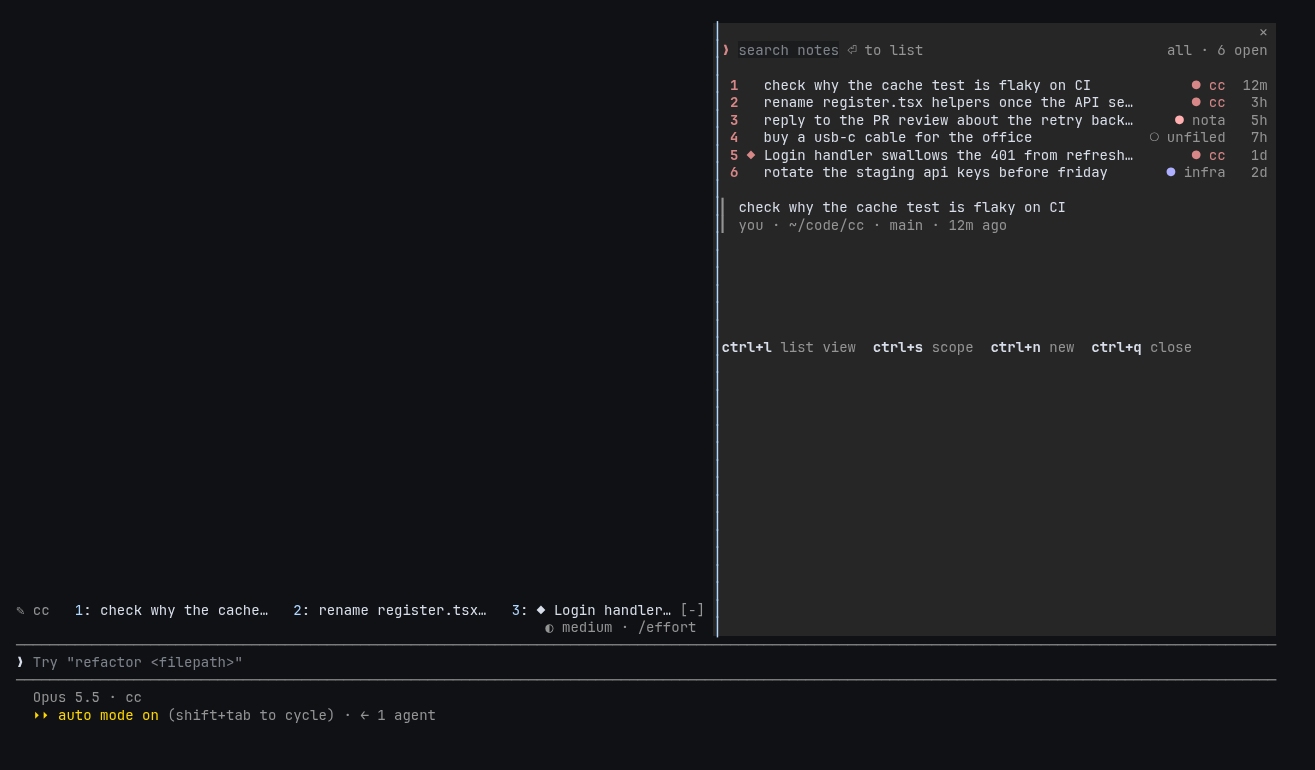
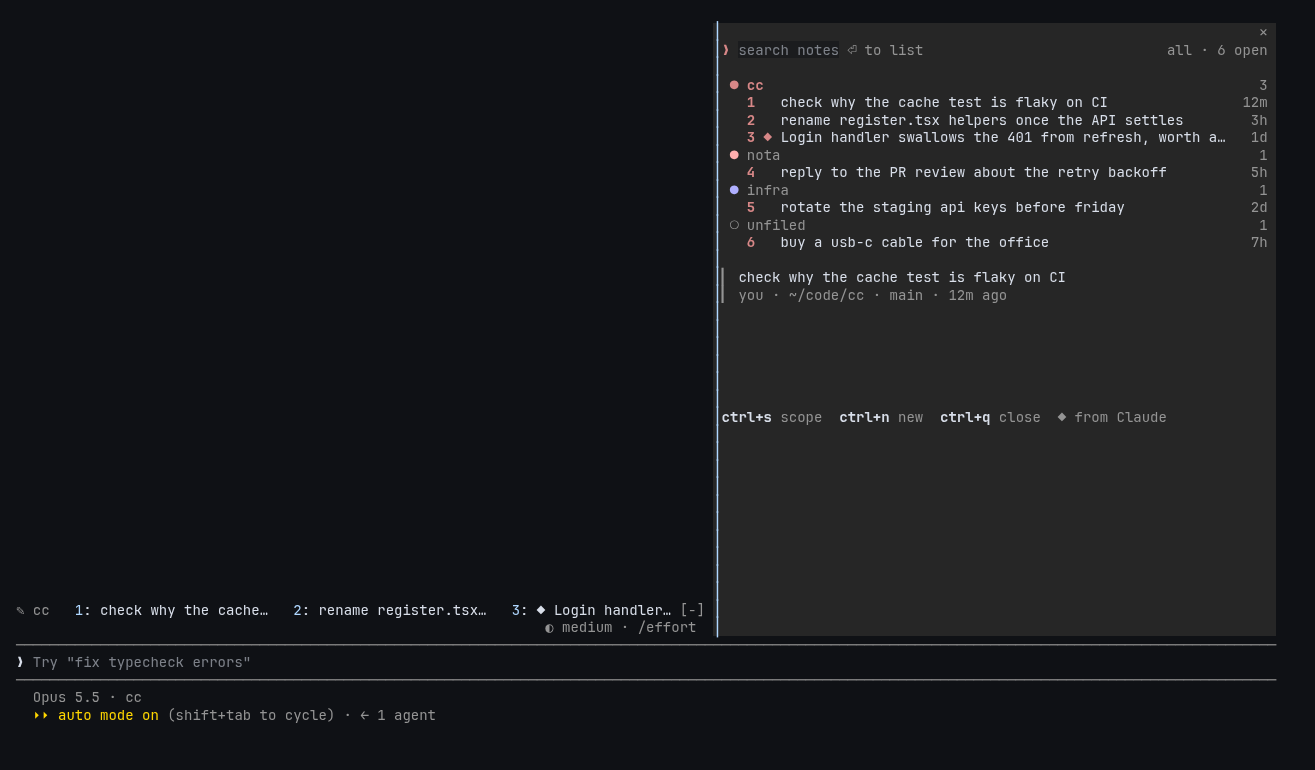
README: reword the intro and feature list, and retake the pane screenshot
The pane groups notes by project now (#19).

diff --git a/README.md b/README.md
@@ -5,7 +5,7 @@
   </picture>
 </h1>
 
-A scratchpad for Claude Code: capture thoughts and follow-ups from within claude code without breaking your flow, triage them across projects and machines, and turn them into prompts. An optional small hub keeps your notes in sync between machines and serves a phone app for capturing and triaging on the go.
+A scratchpad for Claude Code: capture thoughts and follow-ups from within Claude Code without breaking your flow, triage and sync them across projects and machines, and turn them into prompts. An optional small hub keeps your notes in sync between machines and serves a phone app for capturing and triaging on the go.
 
 
 ![The ostrakon pane docked beside a Claude Code session, listing open notes across projects, with this project's notes as numbered chips above the prompt](docs/images/pane.png)
@@ -13,11 +13,11 @@ A scratchpad for Claude Code: capture thoughts and follow-ups from within claude
 ## What it does
 
 - **Capture** a note in under two seconds, even while Claude is working, without losing your prompt draft: `/jot text`, or `//` typed into an empty prompt.
-- **Gives Claude a `jot` tool**: Claude jots notes it thinks are important or wants to pass on to you, marked `◆`. You can also ask it to add one: "jot that down". Claude can also list your notes ("what's on my list?") and archive one once it's done.
-- **Triage** open notes for this project or across all of them in a searchable pane: edit, move, archive, bundle several into one prompt.
+- **Gives Claude a `jot` tool**: Claude jots notes it thinks are important or wants to pass on to you. You can also ask it to add one: "jot that down". Claude can also list your notes and archive one once it's done.
+- **Triage** open notes across all your projects in a searchable pane: edit, move, archive, bundle several into one prompt.
 - **Dispatch** a note into the prompt. This project's open notes sit in a row of numbered chips above the prompt (the "pocket"); press a note's number in an empty prompt to pull it in.
 - **Harvest** (opt-in): after each turn, an extra review looks for side issues that came up and offers them as notes, which you keep or dismiss. It doesn't change what Claude is doing.
-- **Sync** notes both ways between machines, through a small hub, a plain folder, or both ([Sync](#sync)).
+- **Sync**: two-way sync enabled by multiple methods. Through a small hub, a plain folder, Obsidian or a combination of methods ([Sync](#sync)).
 - **Phone**: capture and triage from your phone with the hub's web app, installed to the Home Screen, or send a note from the share sheet or Siri with an iOS Shortcut.
 
 Notes are plain Markdown files with some YAML. One per note, in `~/.local/share/ostrakon/` by default, so they are yours to read, grep and back up.
